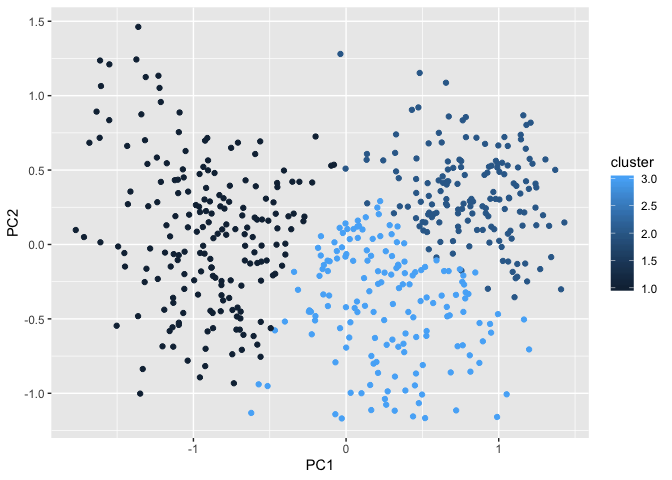
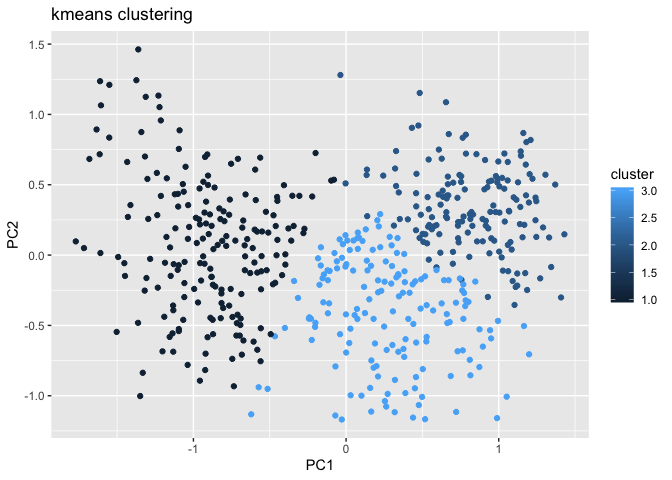
Knitted Paul's work.

diff --git a/nba_project.md b/nba_project.md
@@ -13,7 +13,26 @@ library(plotly)
 
 ## Abstract
 
+In this project, my group will describe the changes in playstyle types
+throughout the NBA’s history. We will perform PCA analysis to determine
+the essential traits for different players, and then use important
+principal components and unsupervised learning techinques to cluster
+players into different “types” and see the movement of types over time.
+
 ## Introduction
+
+The NBA, initially created in 1946, has seen much change throughout its
+history, for example, the introduction of the 3 point line in the 79/80
+season and the elimination of hand checking in 1990. These changes have
+altered the playstyles of many teams; some players, especially former
+players, have critisized these changes, such as the reliance of many
+teams on jump shooting. If you look at the Houston Rocket’s shotchart,
+you may notice huge regions of white space away from the basket and the
+3 point line in order to maximize the efficiency of their shots. We
+expect to see a steady increase in 3 point shooting from when the 3
+point line was introduced in the NBA. We also expect to see a decrease
+in big, slow players that may have trouble defending these shots, and a
+decrease in players that specialize in shooting the midrange.
 
 ### The data
 
@@ -791,13 +810,15 @@ n_clusters_hier_cut_all_nba <- cutree(n_clusters_hier_all_nba, 3)
 n_pcas_kmeans_all_nba <- n_pcas_all_nba %>% mutate(cluster = n_clusters_kmeans_all_nba$cluster)
 n_pcas_hier_all_nba <- n_pcas_all_nba %>% mutate(cluster = n_clusters_hier_cut_all_nba)
 
-ggplot(n_pcas_kmeans_all_nba, aes(x = PC1, y = PC2, color = cluster)) + geom_point()
+ggplot(n_pcas_kmeans_all_nba, aes(x = PC1, y = PC2, color = cluster)) + geom_point() +
+  labs(title = "kmeans clustering")
 ```
 
 ![](nba_project_files/figure-gfm/unnamed-chunk-7-2.png)<!-- -->
 
 ``` r
-ggplot(n_pcas_hier_all_nba, aes(x = PC1, y = PC2, color = cluster)) + geom_point()
+ggplot(n_pcas_hier_all_nba, aes(x = PC1, y = PC2, color = cluster)) + geom_point() +
+  labs(title = "hierarchical clustering")
 ```
 
 ![](nba_project_files/figure-gfm/unnamed-chunk-7-3.png)<!-- -->
@@ -826,12 +847,90 @@ cluster_proportions_3_all_nba = players_post1984_pca_clusters_year_3_all_nba$n/p
 
 cluster_proportions_all_nba <- tibble(year = c(1984:2019), one = cluster_proportions_1_all_nba, two = cluster_proportions_2_all_nba, three = cluster_proportions_3_all_nba)
 
+#Red: first cluster, Blue: second cluster, Green: third cluster
 ggplot(cluster_proportions_all_nba, aes(x = year, y = one))+geom_line(color = "red")+
   geom_line(aes(x = year, y = two), color = "blue")+
-  geom_line(aes(x = year, y = three), color = "green")
+  geom_line(aes(x = year, y = three), color = "green") +
+  labs(y ="Proportion")
 ```
 
 ![](nba_project_files/figure-gfm/unnamed-chunk-7-4.png)<!-- -->
+
+``` r
+#some more animated graphs
+#counts
+nbaclusters <- tibble(n_pcas_kmeans_all_nba$cluster, 
+                          n_pcas_hier_all_nba$cluster,
+                          allnbaplayerspca$yearSeason) %>%
+  mutate(kmeanscluster=n_pcas_kmeans_all_nba$cluster ,
+         hierarchicalcluster = n_pcas_hier_all_nba$cluster,
+         yearSeason= allnbaplayerspca$yearSeason)
+nbaclusters <- nbaclusters[,-c(1:3)]
+
+
+clustercountkmeansallnba <- nbaclusters %>%
+  group_by(yearSeason, kmeanscluster) %>%
+  summarize(count = n())
+clustercounthierchallnba <- nbaclusters %>%
+  group_by(yearSeason, hierarchicalcluster) %>%
+  summarize(count = n())
+
+
+#allnba kmean and hierarchical clusters over time
+kmeansclustergraphallnba <-
+  ggplot(data = clustercountkmeansallnba, 
+         mapping = aes(x = yearSeason, y = count, color = kmeanscluster)) +
+  geom_point() +
+  ylim(-.5,7)
+kmeansclustergraphallnba
+```
+
+    ## Warning: Removed 2 rows containing missing values (geom_point).
+
+![](nba_project_files/figure-gfm/unnamed-chunk-8-1.png)<!-- -->
+
+``` r
+hierarchicalgraphallnba <-
+  ggplot(data = clustercounthierchallnba, 
+         mapping = aes(x = yearSeason, y = count,
+                       color = hierarchicalcluster)) +
+  geom_point() +
+  ylim(-.5,7)
+hierarchicalgraphallnba
+```
+
+    ## Warning: Removed 12 rows containing missing values (geom_point).
+
+![](nba_project_files/figure-gfm/unnamed-chunk-8-2.png)<!-- -->
+
+``` r
+#all nba player's clusters over time
+n_pcas_kmeans <- n_pcas_kmeans %>%
+  mutate(yearSeason = d$yearSeason) 
+n_pcas_hier <- n_pcas_hier %>%
+    mutate(yearSeason = d$yearSeason) 
+nbakmeans <- 
+  ggplot(n_pcas_kmeans, aes(x = PC1, y = PC2, color = cluster)) +
+  geom_point()+
+  ylab("Shooters vs Baseline") +
+  xlab("Usage vs Non-Usage")
+nbahierch <- 
+  ggplot(n_pcas_hier, aes(x = PC1, y = PC2, color = cluster)) + 
+  geom_point()+
+  ylab("Shooters vs Baseline") +
+  xlab("Usage vs Non-Usage")
+  
+byseasonplotkmeans  <- nbakmeans + transition_time(yearSeason) +
+  labs(title = "Season: {frame_time}") 
+animate(byseasonplotkmeans, 
+        renderer = gifski_renderer(), nframes = 36, fps = 2)
+byseasonplothierch <- nbahierch + transition_time(yearSeason) +
+  labs(title = "Season: {frame_time}")
+animate(byseasonplothierch, 
+        renderer = gifski_renderer(), nframes = 36, fps = 2)
+```
+
+![](nba_project_files/figure-gfm/unnamed-chunk-8-1.gif)<!-- -->
 
 ## Discussion
 
@@ -850,5 +949,14 @@ blkPerGame. PC3 is the distinction between “Outside the Arc” (-) and
 “Inside the Arc” (+) Extreme negative values appear for
 pctTrueShooting, pctEFG, pct3PRate. On the positive side, we see
 tovPerGame, pctUSG, pctBLK, and fg2aPerGame.
+
+### Clustering
+
+Using Hierarchical clustering, we were able to break down players into 3
+“types”: Cluster 1: lower usage, spread in shootting/baseline, and
+spread in outside/ inside the arc Cluster 2: spread in usage, shooters,
+Cluster3: high usage, baseline,
+
+### 
 
 ## References
